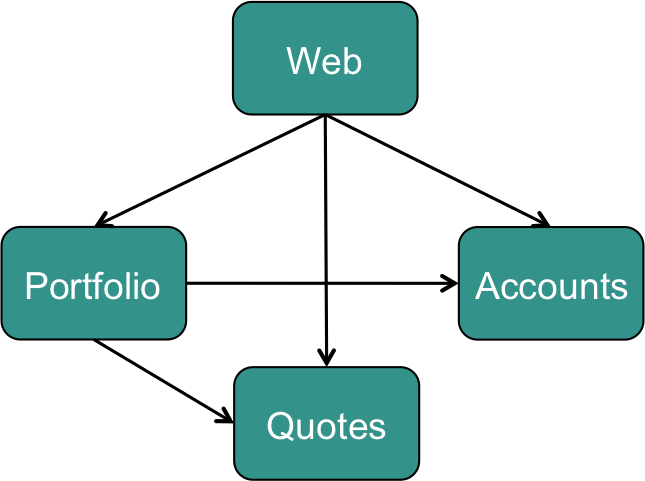
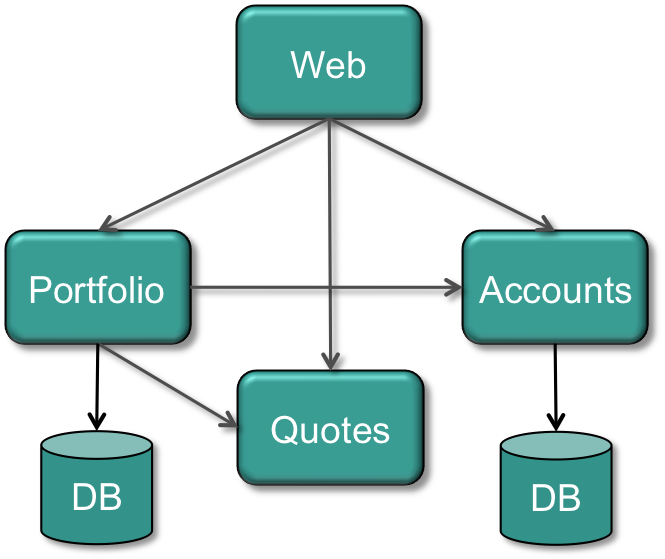
updating lab docs

diff --git a/docs/lab_pushall.md b/docs/lab_pushall.md
@@ -1,0 +1,73 @@
+# Pushing all the services.
+
+In the previous lab, you deployed a single microservice that has no dependencies. However, it is very rare that a microservice has no dependencies - *no microservice is an island!*
+
+In fact, even the quote service has a dependency on an external service to retrieve real-time data.
+
+In this exercise, we will be deploying all the applications in the project to the cloud and creating all required services.
+
+### 1. Quote service
+The quote service has no dependencies - apart from the external service which is hardcoded in the application - *Don't do this at home!*
+
+### 2. Accounts service
+The accounts service has a dependency on a RDBMS database.
+
+**Cloud Foundry** provides a marketplace where administrators can enable certain services to be available to developers/operators. These services are called [*Managed services*](http://docs.pivotal.io/pivotalcf/devguide/services/#managed-services), in contrast to [*User-provided services*](http://docs.pivotal.io/pivotalcf/devguide/services/#user-provided-services) as we shall see later.
+
+There are a couple of ways to create a service in **Cloud Foundry**. For this service we will explore using the UI to create the service.
+
+Log in to the Apps Manager through your browser. The URL will be something like: https://console.&lt;your_cloud_foundry_url&gt;/;
+
+Go the *Marketplace* and choose a MySQL service. In Pivotal Web Services this will be the "ClearDB MySQL Database". Depending on your cloud provider, you may have multiple plans to choose from. For this exercise, the smallest *free* plan will suffice.
+
+When prompted for the name of the service, insert **"traderDB"** and bind it to the space you are using to deploy your applications.
+
+> You can pick any name of the service, however, the service is already specified in the manifest files, so it is easier to re-use that name. If you do modify the name, ensure you modify it in the manifest files as well.
+
+## 3. Portfolio service
+
+The portfolio service has a dependency on 3 services:
+
+- A RDBMS.
+- The quote service.
+- The Account service.
+
+For the RDBMS, we will be re-using the service created for the *Accounts service*. This is for simplicity of these exercises, and it is possible and probably favorable to create a new DB service specific to the portfolio service.
+
+For the portfolio service to retrieve updated pricing information, it requests the data from quote service. To achieve this, you will have to create a [*User-provided service*](http://docs.pivotal.io/pivotalcf/devguide/services/user-provided.html).
+
+To create this, we will be using the CLI.
+
+Name this service **quoteService** and specify the URL of your instance of the quote service. For example:
+
+`cf cups quoteService -p '{"tag":"quotes","uri":"http://quotes.<my-domain>"}'`
+
+The portfolio service also needs to interact with the Account service to instruct it to increase or decrease the balance of the funds in the account. Thus, create another User-provided service, naming it *accountService* and specifying the URL of the accounts service.
+
+
+## 4. Web service
+The Web service is the UI front-end and also acts as an API aggregator. As such, it uses all the other microservices in the project, i.e. The quote, account and portfolio services.
+
+We have already created *user-provided services* for the quote and account microservices, thus only the portfolio one is required.
+
+As above, create a *User-provided service* naming it *portfolioService* and specifying the URL of your portfolio service.
+
+
+
+## 5. Push all the applications.
+
+Now that we have all the required services created, let's push all the applications in one go. The **Cloud Foundry** manifest file allows us to [define multiple applications in a single file](http://docs.pivotal.io/pivotalcf/devguide/deploy-apps/manifest.html#multi-apps)
+
+Ensure you have modified the *manifest-all.yml* file to have unique routes, and those routes will match the URLs specified in the user-provided services you created.
+
+Use the CLI to push all applications using the *manifest-all.yml* manifest file.
+
+Once completed, go to the URL of the Web service in your browser.
+
+# Summary
+Congratulations! You have now deployed a set of microservices to the cloud that interact with each other.
+
+Feel free to familiarise yourself with the UI of the application.
+
+Now you can go to [Lab 4][lab4]
+[lab4]: docs/lab_scale.md

diff --git a/docs/lab_setup.md b/docs/lab_setup.md
@@ -1,0 +1,66 @@
+#Lab 1 - Setting up the environment.
+In this exercise, we will be setting up the environment and all the tools required.
+
+It assumes you are running Linux or MacOS, although it is possible to configure on Windows too.
+
+If you are in a Pivotal workshop and don't want to install and configure these tools in your laptop, ask for the VM which has all required tools already installed. However, you'll still have to provide credentials/accounts for git and Pivotal Web Services.
+
+## 1. git install
+
+You'll need the git CLI in order to clone and use the code in this repository.
+
+Follow the instructions [here](https://help.github.com/articles/set-up-git/#platform-mac) to install and configure the git CLI on your host.
+
+## 2. Cloud Foundry account creation
+
+You'll need an account on a **Cloud Foundry** instance. Pivotal provides a public instance of **Cloud Foundry** with a 60 day free trial period.
+
+Create an account on Pivotal Web Services [here](http://run.pivotal.io).
+
+## 3. Cloud Foundry CLI
+
+The **Cloud Foundry** command line interface is an easy way to interact with instances of **Cloud Foundry**.
+
+You can obtain the CLI for multiple OS [here](https://github.com/cloudfoundry/cli)
+
+## 4. Orgs and spaces
+
+In order to deploy applications to **Cloud Foundry**, you'll need to setup an organisation and a space. Whilst creating the account on Pivotal Web Services, these should have been setup automatically. If you are using another instance of **CF**, then create at least one organisation and one space - this is the minimum required for the labs.
+
+You can learn more about orgs and spaces within **Cloud Foundry** at http://docs.pivotal.io/pivotalcf/concepts/roles.html
+
+## 5. Cloning the repository
+
+Clone the GIT repository to your local machine. On the command line issue the following command:
+
+```git clone https://github.com/dpinto-pivotal/cf-SpringBootTrader.git```
+
+Once you have cloned the repository, it is important to build it to create the application artifacts.
+
+The projects use [gradle](http://gradle.org) as the build tool with gradle wrapper. Thus, all it is required to build all the microservices is:
+
+```
+./gradlew build
+```
+
+## 6. Logging in to Cloud Foundry
+
+Login to your instance of **Cloud Foundry**. Instructions on how to do this can be found at http://docs.pivotal.io/pivotalcf/devguide/installcf/whats-new-v6.html#login
+
+# Summary
+
+At the end of this lab, you should have an environment setup to enable you to deploy applications to **Cloud Foundry**. You will also have the code required for the rest of the labs.
+
+In order to check that all is setup correctly, you should have something similar to the following:
+
+```
+Penguin:cf-SpringBootTrader dpinto$ cf target
+
+API endpoint:   https://CF-URI (API version: 2.23.0)
+User:           dpinto
+Org:            dpinto-org
+Space:          development
+```
+
+Now you can go to [Lab 2][lab2]
+[lab2]: docs/lab_pushquote.md

diff --git a/docs/lab_pushquote.md b/docs/lab_pushquote.md
@@ -1,0 +1,35 @@
+# Lab 2 - Pushing the Quote service
+
+In **Cloud Foundry** vocabulary, deploying an application is referred to as *pushing* the application since we are uploading the application artifact to the cloud.
+
+More information on the application deployment process can be found [here](http://docs.pivotal.io/pivotalcf/devguide/deploy-apps/deploy-app.html)
+
+The `cf push` command is used for this. In fact, running this command with no parameters, the CLI will look for a file *manifest.yml* in the current directory. Alternatively, you can specify an application name as the parameter and the CLI will upload all files it finds in the current directory.
+
+### Application manifest files.
+Application manifests tell `cf push` what to do with applications. This includes everything from how many instances to create and how much memory to allocate to what services applications should use.
+
+A manifest can help you automate deployment, especially of multiple applications at once.
+
+## 1. Modifying the manifest files.
+Since each application requires a route to be bounded to the application, and potentially there may be many instances of these services deployed, we want to ensure we have unique routes bounded to the services we deploy.
+
+This requires editing the manifest-\*.yml files in the base directory of the project.
+
+Modify the manifest files do each service has a unique route. As a clue, read [this](http://docs.pivotal.io/pivotalcf/devguide/deploy-apps/manifest.html#host).
+
+> It may be a good idea to prefix or suffix the host variable with your initials to ensure uniqueness of routes.
+
+Once you have modified the manifest files, *push* the quote service to the cloud by [specifying the specific manifest file](http://docs.pivotal.io/pivotalcf/devguide/deploy-apps/manifest.html#find-manifest) to the `cf push` command.
+
+
+# Summary
+
+Ensure you have a working quote service application by sending HTTP requests to it, for example:
+
+`curl http://<ROUTE_TO_QUOTE_SERVICE>/quote/EMC`
+
+You have now deployed your first application to *Cloud Foundry*. Can you describe the steps the platform went through between your `cf push` command and having the application accessible?
+
+Now you can go to [Lab 3][lab3]
+[lab3]: docs/lab_pushall.md

diff --git a/docs/lab_scale.md b/docs/lab_scale.md
@@ -1,0 +1,21 @@
+# Scaling the services.
+Within **Cloud Foundry** the concept of scalability can mean different things:
+- scaling the amount of resources available to the platform to run applications instances - as well as other platform components - [Scaling CF](http://docs.pivotal.io/pivotalcf/concepts/high-availability.html).
+- increasing memory of each application instance ([vertical scaling](http://docs.pivotal.io/pivotalcf/devguide/deploy-apps/cf-scale.html#vertical)).
+- horizontally scaling the application ([horizontal scaling](http://docs.pivotal.io/pivotalcf/devguide/deploy-apps/cf-scale.html#horizontal)).
+
+One of the benefits of a micro service architecture is that each service can be scaled independently. This means that if the quote service is under stress (CPU,memory), it can be scaled up independently from the other services. The platform will automatically load balance the requests across the available instances.
+
+Scale the Quote service to two instances using either the UI or the CLI.
+
+Monitor the logs of the quote service application, either via the [CLI](http://docs.pivotal.io/pivotalcf/devguide/deploy-apps/streaming-logs.html#view) or the UI.
+
+Use the REST api of the quote service to retrieve quotes, for example:
+
+`curl http://<ROUTE_TO_QUOTE_SERVICE>/quote/EMC`
+
+or put the URL in your browser window.
+
+How do the logs show which instance of the application is actually servicing the request?
+
+How far can you scale the quote service? what is the limitation?

diff --git a/README.md b/README.md
@@ -56,8 +56,8 @@ At Pivotal we love education, not just educating ourselves, but also educating o
 4. [Lab 4: Scaling the services] [lab4]
 5. [Lab 5: Blue/Green deployments] [lab5]
 
-[lab1]: docs/lab1.md
-[lab2]: docs/lab2.md
-[lab3]: docs/lab3.md
-[lab4]: docs/lab4.md
+[lab1]: docs/lab_setup.md
+[lab2]: docs/lab_pushquote.md
+[lab3]: docs/lab_pushall.md
+[lab4]: docs/lab_scale.md
 [lab5]: docs/lab5.md
